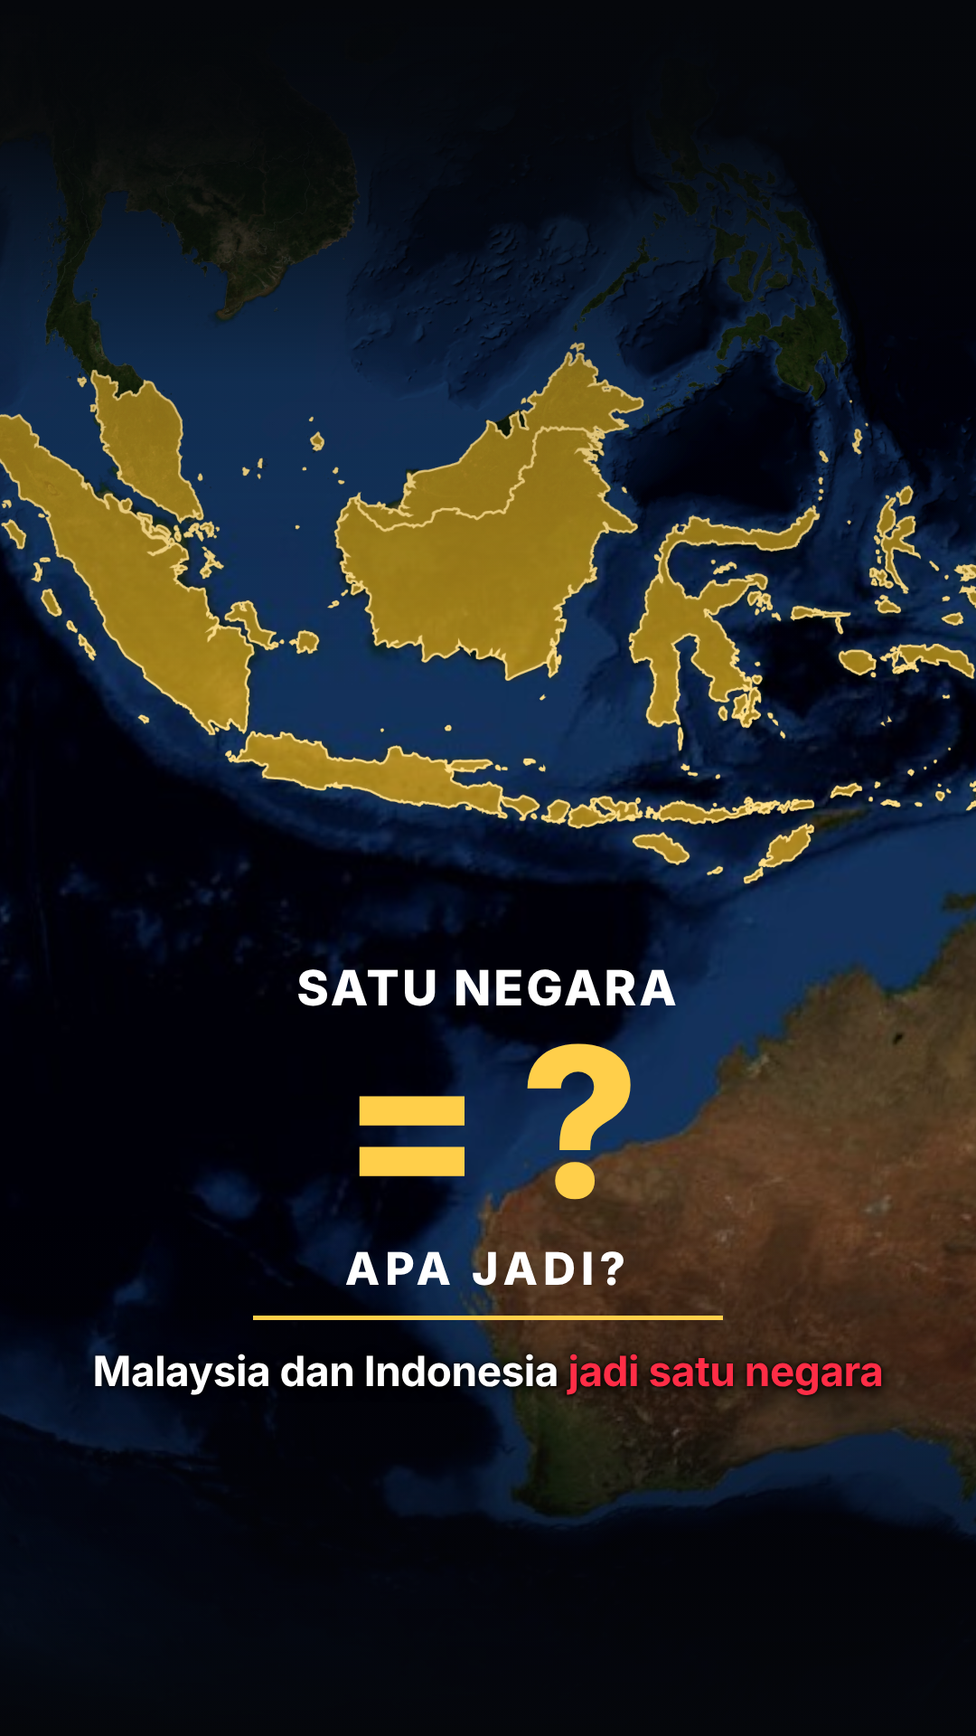
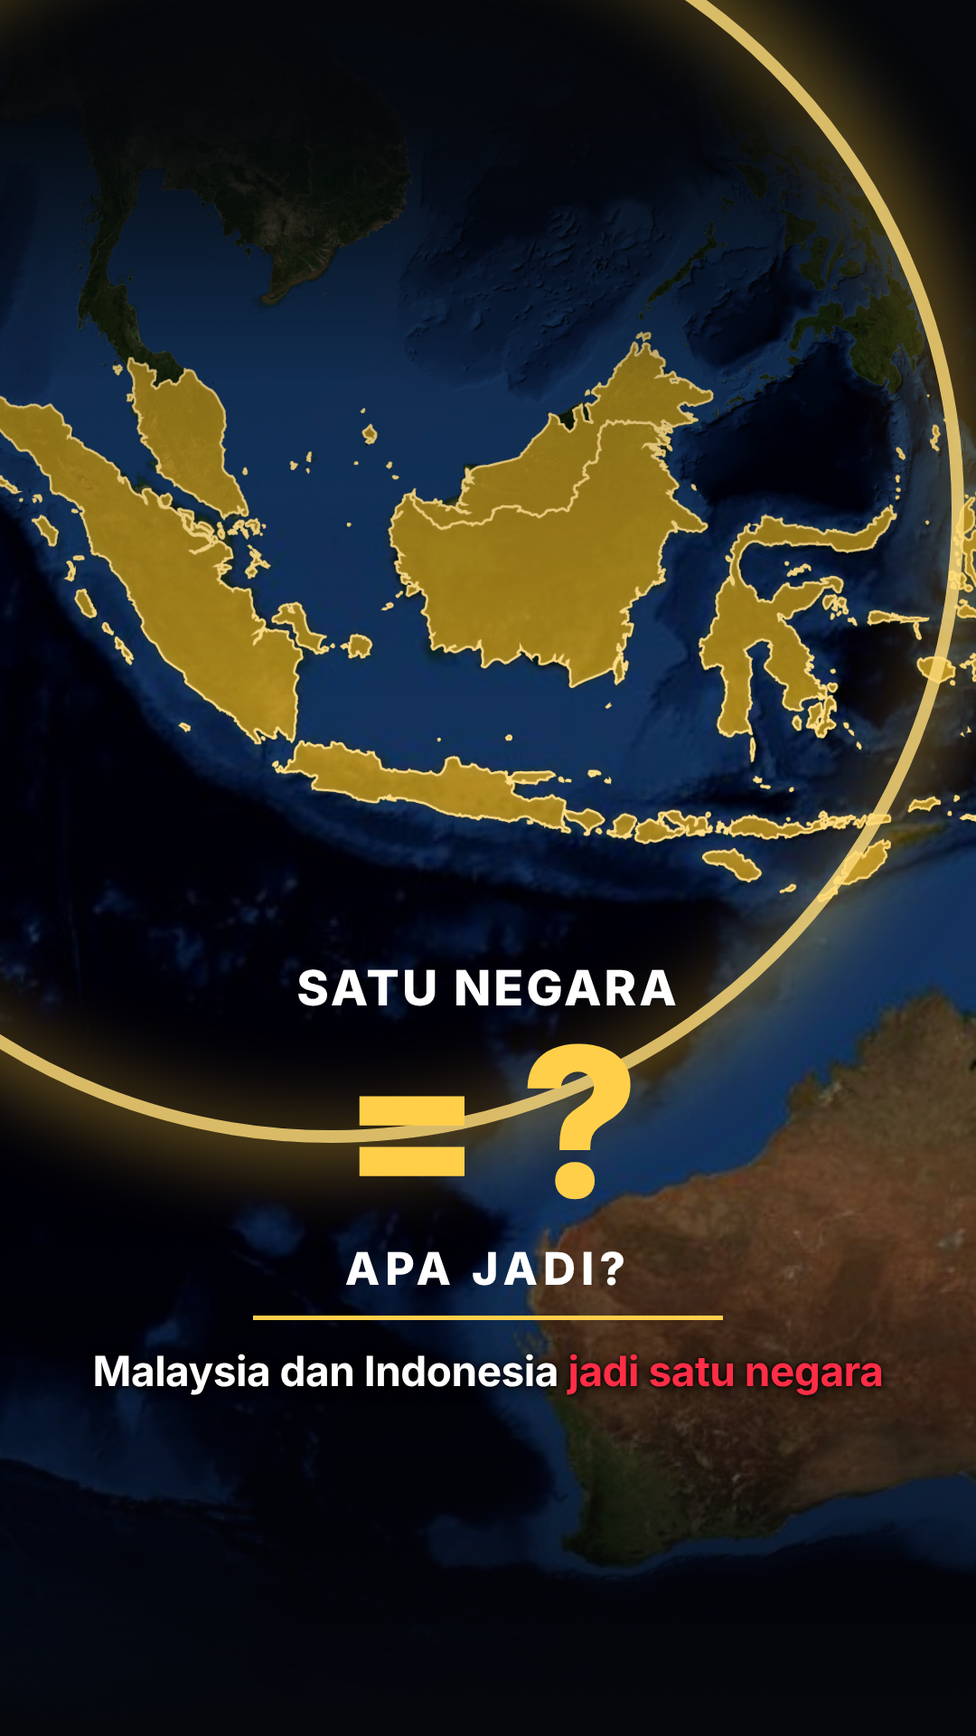
whatif-mi-video: storyboard v2 with zip seam, slam, leaderboard climb, name slot, Anwar-Prabowo handshake
Claude-Session: https://claude.ai/code/session_01GRVCpWmiskqov5jCfdMsbZ

diff --git a/whatif-mi-video/boards/frame.html b/whatif-mi-video/boards/frame.html
@@ -108,6 +108,20 @@ html,body{width:1080px;height:1920px;background:#05070b;overflow:hidden;font-fam
 .cmp{margin-top:14px}.cmp div{display:flex;align-items:center;gap:12px;margin:8px 0;font:800 22px Inter;color:#c9d0d8}.cmp b{width:210px;font-weight:800}.cmp i{display:block;height:22px;background:#5b6573;border-radius:5px;flex:none;max-width:360px}.cmp u{text-decoration:none;color:#fff}.cmp .me i{background:#ffcf4a}.cmp .me b,.cmp .me u{color:#ffcf4a}
 .rkl{margin-top:14px}.rkl div{display:flex;align-items:center;gap:14px;font:800 26px Inter;color:#c9d0d8;padding:6px 10px;border-radius:8px}.rkl s{text-decoration:none;width:40px;color:#8a929b}.rkl u{margin-left:auto;text-decoration:none;color:#fff}.rkl .me{background:rgba(255,207,74,.18);color:#ffcf4a}.rkl .old{font:700 16px Mono;color:#8a929b}
 .sp{position:absolute;font:800 54px Inter;color:#111;background:#fff;padding:22px 34px;border-radius:40px 40px 40px 8px;box-shadow:0 14px 40px rgba(0,0,0,.6)}.sp.r{border-radius:40px 40px 8px 40px;background:#ffcf4a}
+.hypo{position:absolute;top:240px;left:0;right:0;text-align:center;font:700 22px Mono;letter-spacing:4px;color:#ffcf4a}
+.spk{position:absolute;width:120px;height:120px;margin:-60px 0 0 -60px;border-radius:50%;background:radial-gradient(#fff,rgba(255,220,120,.9) 25%,rgba(255,180,40,0) 70%);box-shadow:0 0 60px 20px rgba(255,200,80,.5)}
+.shock{position:absolute;width:1400px;height:1400px;margin:-700px 0 0 -700px;border-radius:50%;border:14px solid rgba(255,220,120,.85);box-shadow:0 0 80px 30px rgba(255,200,60,.35),inset 0 0 80px 20px rgba(255,200,60,.25)}
+.lb{position:absolute;left:70px;right:70px;background:rgba(10,12,17,.94);border-radius:18px;padding:22px 24px;box-shadow:0 24px 60px rgba(0,0,0,.6)}.lb .k{font:700 20px Mono;letter-spacing:3px;color:#c9d0d8;margin-bottom:10px}
+.lr{display:flex;align-items:center;gap:16px;font:800 32px Inter;color:#e9eef3;padding:12px 14px;border-radius:10px;margin:4px 0;background:rgba(255,255,255,.04)}.lr s{text-decoration:none;width:48px;color:#8a929b}.lr u{margin-left:auto;text-decoration:none}
+.lr.me{background:linear-gradient(90deg,#ffcf4a,#f2a51a);color:#111;transform:scale(1.04);box-shadow:0 10px 30px rgba(255,200,60,.4)}.lr.me s{color:#111}
+.lf{margin-top:12px;font:800 24px Inter;color:#fff}.lf b{color:#ffcf4a}.lf i{font-style:normal;color:#ff2d46}
+.dust{position:absolute;width:900px;height:300px;margin:-150px 0 0 -450px;border-radius:50%;border:10px solid rgba(255,230,170,.6);box-shadow:0 0 60px 20px rgba(255,220,150,.3)}
+.slam{position:absolute;top:240px;left:0;right:0;text-align:center;font:800 120px Inter;color:#fff;text-shadow:0 8px 0 #ff2d46,0 12px 30px rgba(0,0,0,.7);transform:rotate(-6deg)}
+.hs{position:absolute;filter:drop-shadow(0 18px 22px rgba(0,0,0,.6))}
+.glint{position:absolute;width:160px;height:160px;margin:-80px 0 0 -80px;border-radius:50%;background:radial-gradient(#fff,rgba(255,220,120,.8) 25%,rgba(255,180,40,0) 70%)}
+.np2{position:absolute;display:flex;flex-direction:column;align-items:flex-start;gap:6px}.np2.r{align-items:flex-end}.np2 b{font:800 30px Inter;color:#fff;background:rgba(10,12,17,.88);padding:6px 14px;border-radius:8px}.np2 i{font:800 18px Inter;font-style:normal;color:#111;background:#ffce00;padding:5px 10px;border-radius:5px}
+.slot{position:absolute;top:880px;left:110px;right:110px;background:rgba(10,12,17,.94);border:4px solid #ffcf4a;border-radius:22px;padding:20px;text-align:center;box-shadow:0 24px 60px rgba(0,0,0,.6)}.slot .k{font:700 22px Mono;letter-spacing:3px;color:#ffcf4a}
+.reel{margin:10px 0;overflow:hidden}.reel div{font:800 60px/1.25 Inter}.reel .ghost{color:rgba(255,255,255,.25);font-size:44px;filter:blur(1.5px)}.reel .cur{color:#fff}.slot .hint{font:800 26px Inter;color:#ff2d46}
 #tintS{position:absolute;inset:0;background:radial-gradient(ellipse at 50% 50%,rgba(255,30,50,0) 40%,rgba(255,30,50,.45) 100%)}
 </style></head><body>
 <canvas id="gl" width="1080" height="1920"></canvas>
@@ -286,30 +300,36 @@ function borderGlow() { const L = g.layer("bd", 8, SEA), c = L.ctx; c.save(); c.
   const P = (pts) => { c.beginPath(); pts.forEach(([lo, la], i) => (i ? c.lineTo(L.ox(lo), L.oy(la)) : c.moveTo(L.ox(lo), L.oy(la)))); c.stroke(); };
   P([[109.6, 1.7], [111.5, 1.1], [113.5, 1.4], [114.6, 2.3], [115.6, 3.9], [117.6, 4.2]]); P([[98.5, 5.6], [100.8, 3.2], [102.6, 1.8], [104.2, 1.2]]); c.restore(); L.tex.needsUpdate = true; }
 const gcard = (top, html2) => html(`<div class="gk" style="top:${top}px">${html2}</div>`);
+const HAND = await (await fetch("../assets/leaders/hand.json")).json();
+// zip seam: border opened up to a point, sparks at the slider
+function zipSeam(u) { const L = g.layer("zip", 9, SEA), c = L.ctx; const P = [[98.5, 5.6], [100.8, 3.2], [102.6, 1.8], [104.2, 1.2], [107, 1.4], [109.6, 1.7], [111.5, 1.1], [113.5, 1.4], [114.6, 2.3], [115.6, 3.9], [117.6, 4.2]];
+  const n = P.length - 1, k = u * n, i = Math.floor(k), f = k - i, head = i < n ? [P[i][0] + (P[i + 1][0] - P[i][0]) * f, P[i][1] + (P[i + 1][1] - P[i][1]) * f] : P[n];
+  c.lineCap = "round"; c.strokeStyle = "#ffe08a"; c.lineWidth = 9; c.shadowColor = "#ffcf4a"; c.shadowBlur = 24; c.beginPath(); P.slice(0, i + 1).concat([head]).forEach(([lo, la], j) => (j ? c.lineTo(L.ox(lo), L.oy(la)) : c.moveTo(L.ox(lo), L.oy(la)))); c.stroke();
+  c.setLineDash([16, 10]); c.strokeStyle = "#fff"; c.lineWidth = 5; c.shadowBlur = 10; c.beginPath(); [head].concat(P.slice(i + 1)).forEach(([lo, la], j) => (j ? c.lineTo(L.ox(lo), L.oy(la)) : c.moveTo(L.ox(lo), L.oy(la)))); c.stroke(); c.setLineDash([]);
+  L.tex.needsUpdate = true; return head; }
+const sparks = (x, y) => html(`<div class="spk" style="left:${x}px;top:${y}px"></div>`);
+const board = (top, title, rows, foot) => html(`<div class="lb" style="top:${top}px"><div class="k">${title}</div>${rows.map(([r, n, v, cls = ""]) => `<div class="lr ${cls}"><s>${r}</s><span>${n}</span><u>${v}</u></div>`).join("")}${foot ? `<div class="lf">${foot}</div>` : ""}</div>`);
 const FR = {
-  1() { fillL("my", [MYf], "rgba(40,110,255,.55)", "#8fb4ff"); fillL("id", [IDf], "rgba(230,40,50,.55)", "#ff9aa0"); borderGlow();
-    g.setView({ lat: 0, lon: 114, dist: 1.9, tilt: 8, yShift: 0.18 });
-    locPin(4.2, 102.0, "MALAYSIA", ""); locPin(-2.5, 118, "INDONESIA", "");
-    html(`<div class="title" style="top:1060px"><div class="a">BAYANGKAN…</div><div class="b"><span>WHAT IF?</span></div><div class="c">MALAYSIA + INDONESIA</div><div class="ln"></div></div>`); },
-  2() { fillL("mi", [MYf, IDf], gold, "#ffe08a"); g.setView({ lat: 0, lon: 114, dist: 1.9, tilt: 8, yShift: 0.18 });
-    html(`<div class="title" style="top:1060px"><div class="a">SATU NEGARA</div><div class="b"><span style="color:#ffcf4a">= ?</span></div><div class="c">APA JADI?</div><div class="ln" style="background:#ffcf4a"></div></div>`);
+  1() { fillL("my", [MYf], "rgba(40,110,255,.55)", "#8fb4ff"); fillL("id", [IDf], "rgba(230,40,50,.55)", "#ff9aa0");
+    g.setView({ lat: 1, lon: 108, dist: 1.5, tilt: 8, yShift: 0.18 }); const h = zipSeam(0.55); g.render(); const p = g.project(h[1], h[0]); sparks(p.x, p.y);
+    html(`<div class="hypo">VIDEO HIPOTETIKAL</div><div class="title" style="top:1080px"><div class="a">BAYANGKAN…</div><div class="b"><span>WHAT IF?</span></div><div class="c">MALAYSIA + INDONESIA</div><div class="ln"></div></div>`); },
+  2() { fillL("mi", [MYf, IDf], gold, "#ffe08a"); g.setView({ lat: 0, lon: 112, dist: 1.8, tilt: 8, yShift: 0.18 }); g.render();
+    const p = g.project(1.5, 107); html(`<div class="shock" style="left:${p.x}px;top:${p.y}px"></div><div class="title" style="top:1060px"><div class="a">SATU NEGARA</div><div class="b"><span style="color:#ffcf4a">= ?</span></div><div class="c">APA JADI?</div><div class="ln" style="background:#ffcf4a"></div></div>`);
     capB(`Malaysia dan Indonesia <span class="r">jadi satu negara</span>`); },
-  3() { fillL("mi", [MYf, IDf], gold, "#ffe08a"); g.setView({ lat: 0, lon: 114, dist: 2.1, tilt: 8, yShift: 0.26 });
-    gcard(860, `<div class="no">PENDUDUK</div><div class="num">324.5<span class="un"> JUTA</span></div><div class="kk">DOSM 2026 + UNJURAN INDONESIA 2026</div>
-      <div class="cmp"><div><b>🇺🇸 AMERIKA</b><i style="width:100%"></i><u>341.8 J</u></div><div class="me"><b>✨ GABUNGAN</b><i style="width:95%"></i><u>324.5 J</u></div><div><b>🇵🇰 PAKISTAN</b><i style="width:71%"></i><u>241.5 J</u></div></div><div class="ex"><b>#4 DUNIA · <i>17 JUTA</i> DI BELAKANG AS</b></div>`);
+  3() { fillL("mi", [MYf, IDf], gold, "#ffe08a"); g.setView({ lat: 0, lon: 114, dist: 2.3, tilt: 8, yShift: 0.3 });
+    board(700, "PENDUDUK DUNIA · 2026", [["1", "🇮🇳 India", "1,429 J"], ["2", "🇨🇳 China", "1,405 J"], ["3", "🇺🇸 Amerika Syarikat", "341.8 J"], ["4", "✨ MALAYSIA + INDONESIA", "324.5 J", "me"], ["5", "🇵🇰 Pakistan", "241.5 J"]], `▲ MEMOTONG… BERHENTI DI <b>#4</b> · <i>17 JUTA LAGI KE #3!</i>`);
     capB(`Negara <span class="r">keempat</span> paling ramai di dunia`); },
-  4() { // true-size shift of the combined shape onto Europe (lon stretched by 1/cos(lat) so area reads honestly)
-    const R = { lon0: -40, lon1: 70, lat0: 25, lat1: 72, ppd: 20 }, L = g.layer("eu", 8, R), c = L.ctx; c.fillStyle = gold; c.strokeStyle = "#ffe08a"; c.lineWidth = 3;
+  4() { const R = { lon0: -40, lon1: 70, lat0: 25, lat1: 72, ppd: 20 }, L = g.layer("eu", 8, R), c = L.ctx; c.fillStyle = gold; c.strokeStyle = "#ffe08a"; c.lineWidth = 3;
     const shift = (lo, la) => { const la2 = la + 50, k = Math.cos(la2 * Math.PI / 180); return [15 + (lo - 115) / k, la2]; };
     for (const f of [MYf, IDf]) { const polys = f.geometry.type === "Polygon" ? [f.geometry.coordinates] : f.geometry.coordinates; c.beginPath();
       for (const poly of polys) for (const ring of poly) ring.forEach(([lo, la], i) => { const [x, y] = shift(lo, la); i ? c.lineTo(L.ox(x), L.oy(y)) : c.moveTo(L.ox(x), L.oy(y)); });
       c.fill("evenodd"); c.stroke(); } L.tex.needsUpdate = true;
-    g.setView({ lat: 50, lon: 15, dist: 2.4, tilt: 6, yShift: 0.26 });
-    gcard(900, `<div class="no">KELUASAN</div><div class="num">2.24<span class="un"> JUTA KM²</span></div><div class="kk">UNSD · SAIZ SEBENAR DILETAK ATAS EROPAH</div><div class="ex"><b>#12 DUNIA · LEBIH BESAR DARI <i>ARAB SAUDI</i></b></div>`);
+    g.setView({ lat: 50, lon: 15, dist: 2.4, tilt: 6, yShift: 0.26 }); g.render(); const p = g.project(48, 18);
+    html(`<div class="dust" style="left:${p.x}px;top:${p.y}px"></div><div class="slam">DUM!</div>`);
+    gcard(960, `<div class="no">KELUASAN · SAIZ SEBENAR</div><div class="num">2.24<span class="un"> JUTA KM²</span></div><div class="ex"><b>#12 DUNIA · LEBIH BESAR DARI <i>ARAB SAUDI</i></b></div>`);
     capB(`Nombor dua belas dunia, <span class="r">lebih besar dari Arab Saudi</span>`); },
-  5() { fillL("mi", [MYf, IDf], gold, "#ffe08a"); g.setView({ lat: 0, lon: 114, dist: 2.1, tilt: 8, yShift: 0.26 });
-    gcard(800, `<div class="no">EKONOMI · KDNK 2026</div><div class="num">$2.03<span class="un"> TRILION</span></div><div class="kk">IMF WEO OKT 2026</div>
-      <div class="rkl"><div><s>14</s>Australia<u>2.11 T</u></div><div><s>15</s>Sepanyol<u>2.09 T</u></div><div class="me"><s>16</s>✨ MALAYSIA + INDONESIA<u>2.03 T</u></div><div><s>17</s>Türkiye<u>1.82 T</u></div><div class="old"><s></s>Indonesia #17 · Malaysia #34 sebelum ni</div></div>`);
+  5() { fillL("mi", [MYf, IDf], gold, "#ffe08a"); g.setView({ lat: 0, lon: 114, dist: 2.3, tilt: 8, yShift: 0.3 });
+    board(700, "EKONOMI · KDNK 2026 (IMF)", [["14", "🇦🇺 Australia", "$2.11 T"], ["15", "🇪🇸 Sepanyol", "$2.09 T"], ["16", "✨ MALAYSIA + INDONESIA", "$2.03 T", "me"], ["17", "🇹🇷 Türkiye", "$1.82 T"], ["18", "🇳🇱 Belanda", "$1.42 T"]], `🇮🇩 #17 + 🇲🇾 #34 → <b>#16</b>`);
     capB(`Masuk <span class="r">enam belas terbesar</span> dunia`); },
   6() { fillL("mi", [MYf, IDf], gold, "#ffe08a"); g.setView({ lat: 0, lon: 112, dist: 1.6, tilt: 8, yShift: 0.18 });
     html(`<div class="sp" style="left:90px;top:700px">Apa khabar? 🇲🇾</div><div class="sp r" style="right:90px;top:860px">Apa kabar? 🇮🇩</div><div class="title" style="top:1120px"><div class="c" style="font-size:48px">BAHASA YANG SAMA AKAR</div></div>`);
@@ -317,11 +337,18 @@ const FR = {
   7() { fillL("mph", [MALAYA, IDf, PHf], "rgba(60,200,180,.5)", "#7fffe8"); g.setView({ lat: 5, lon: 115, dist: 2.2, tilt: 8, yShift: 0.22 });
     gcard(940, `<div class="no" style="color:#7fffe8">MAPHILINDO · 1963</div><div class="num" style="font-size:64px;color:#fff;text-shadow:none">Tanah Melayu + Filipina + Indonesia</div><div class="kk">CADANGAN GABUNGAN LONGGAR · PERJANJIAN MANILA</div><div class="stamp" style="position:relative;display:inline-block;margin-top:18px;font-size:40px">TAK PERNAH JADI</div>`);
     capB(`Tahun enam puluh tiga, <span class="r">Maphilindo</span>`); },
-  8() { fillL("mi", [MYf, IDf], gold, "#ffe08a"); g.setView({ lat: -1, lon: 109, dist: 1.75, tilt: 8, yShift: 0.26 });
+  8() { fillL("my", [MYf], "rgba(40,110,255,.45)", "#8fb4ff"); fillL("id", [IDf], "rgba(230,40,50,.45)", "#ff9aa0"); g.setView({ lat: 1, lon: 110, dist: 1.8, tilt: 8, yShift: 0.1 });
+    const A = HAND.anwar, P = HAND.prabowo, Ha = 640, Hp = 600, sa = Ha / A.h, sp = Hp / P.h, Y = 1060, X = 540;
+    const ax = X + 6 - A.hx * sa, ay = Y - A.hy * sa, px = X - 6 - P.hx * sp, py = Y - P.hy * sp;
+    html(`<img class="hs" src="../assets/leaders/anwar-fig.png" style="left:${ax}px;top:${ay}px;height:${Ha}px"><img class="hs" src="../assets/leaders/prabowo-fig.png" style="left:${px}px;top:${py}px;height:${Hp}px">
+      <div class="glint" style="left:${X}px;top:${Y}px"></div>
+      <div class="np2" style="left:40px;top:${ay + Ha + 8}px"><b>ANWAR IBRAHIM</b><i>PERDANA MENTERI MALAYSIA</i></div><div class="np2 r" style="right:40px;top:${ay + Ha + 8}px"><b>PRABOWO SUBIANTO</b><i>PRESIDEN INDONESIA</i></div>
+      <div class="title" style="top:300px"><div class="c" style="font-size:50px">DUA NEGARA BERDAULAT</div><div class="a" style="color:#ffcf4a;margin-top:8px">JIRAN PALING RAPAT 🤝</div></div>`);
+    capB(`dua negara berdaulat… <span class="r">jiran paling rapat</span>`); },
+  9() { fillL("mi", [MYf, IDf], gold, "#ffe08a"); g.setView({ lat: -1, lon: 109, dist: 1.75, tilt: 8, yShift: 0.26 });
     locPin(3.14, 101.69, "KUALA LUMPUR", "?", true); locPin(-6.2, 106.85, "JAKARTA", "?", true); locPin(-0.97, 116.7, "NUSANTARA (IKN)", "?", true);
-    html(`<div class="title" style="top:920px"><div class="c" style="font-size:52px">IBU NEGARA KAT MANA?</div><div class="a" style="margin-top:10px;color:#ffcf4a">NAMA NEGARA APA?</div></div>`);
-    html(`<div class="bubs" style="top:1110px"><span>KL!</span><span class="r">Jakarta</span><span>Nusantara 🤔</span><span>"Malindo"? 😂</span></div><div class="komen" style="top:1330px">KOMEN ↓</div>`);
-    capB(`ibu negara patut <span class="r">kat mana?</span>`); },
+    html(`<div class="slot"><div class="k">NAMA NEGARA BARU?</div><div class="reel"><div class="ghost">MALINDO</div><div class="cur">NUSANTARA RAYA</div><div class="ghost">INDOMALAYA</div></div><div class="hint">…KORANG PILIH APA?</div></div><div class="komen" style="top:1330px">KOMEN ↓</div>`);
+    capB(`Dan nama negara ni <span class="r">apa?</span>`); },
 };
 FR[F]();
 window.__pins=[...document.querySelectorAll('.pin')].map(e=>e.style.left+','+e.style.top);

diff --git a/whatif-mi-video/boards/storyboard.html b/whatif-mi-video/boards/storyboard.html
@@ -17,17 +17,18 @@ h1{font:800 46px Inter;letter-spacing:-1px}h1 span{color:#ff2d46}
 .vo{font:400 17px/1.4 Inter;color:#dfe5ea;font-style:italic;margin-bottom:12px}
 .fx{font:400 15px/1.45 Inter;color:#9aa3ad}.fx b{color:#ffcf4a;font-weight:700}
 </style></head><body>
-<h1>WHAT IF? <span>MALAYSIA + INDONESIA</span> · storyboard</h1>
-<div class="meta">GAYA MAP ANIMATION (what if) · 1080×1920 · ~48 s · subtitle jalur bawah · data DOSM, IMF WEO Okt 2026, UNSD · tiada bendera gabungan</div>
+<h1>WHAT IF? <span>MALAYSIA + INDONESIA</span> · storyboard v2</h1>
+<div class="meta">GAYA MAP ANIMATION · 1080×1920 · ~52 s · efek: zip sempadan, peta dihempas, ranking memotong, slot nama · karikatur Anwar & Prabowo di babak "jiran rapat" sahaja · subtitle jalur bawah</div>
 <div class="grid">
-<div class="f"><img src="frame-01.png"><div><div class="n">01 · 0:00</div><div class="t">Hook</div><div class="vo">"Bayangkan… Malaysia dan Indonesia jadi satu negara."</div><div class="fx">Malaysia (biru) & Indonesia (merah) menyala, garis sempadan putih berkelip. Tajuk <b>WHAT IF?</b> slam.</div></div></div>
-<div class="f"><img src="frame-02.png"><div><div class="n">02 · 0:03</div><div class="t">Bercantum</div><div class="vo">"Apa jadi?"</div><div class="fx">Sempadan pudar, dua warna <b>cair bercantum jadi emas</b> dari tengah. "SATU NEGARA = ?"</div></div></div>
-<div class="f"><img src="frame-03.png"><div><div class="n">03 · 0:05</div><div class="t">Penduduk</div><div class="vo">"324 juta… keempat paling ramai, 17 juta di belakang Amerika."</div><div class="fx">Kad <b>324.5 JUTA</b> count-up, bar banding AS / GABUNGAN / Pakistan, "#4 DUNIA".</div></div></div>
-<div class="f"><img src="frame-04.png"><div><div class="n">04 · 0:12</div><div class="t">Keluasan</div><div class="vo">"2.2 juta km², nombor 12, lebih besar dari Arab Saudi."</div><div class="fx">Bentuk gabungan <b>diangkat & diletak atas Eropah (saiz sebenar)</b>: Sepanyol sampai Laut Kaspia.</div></div></div>
-<div class="f"><img src="frame-05.png"><div><div class="n">05 · 0:19</div><div class="t">Ekonomi</div><div class="vo">"Lebih 2 trilion dolar, 16 terbesar, hampir Sepanyol."</div><div class="fx">Kad <b>$2.03 TRILION</b>, senarai ranking 14–17 dengan baris gabungan menyala di <b>#16</b>.</div></div></div>
-<div class="f"><img src="frame-06.png"><div><div class="n">06 · 0:26</div><div class="t">Bahasa</div><div class="vo">"Semua orang boleh faham bahasa yang sama."</div><div class="fx">Gelembung "Apa khabar? 🇲🇾" dan "Apa kabar? 🇮🇩" bertemu di tengah.</div></div></div>
-<div class="f"><img src="frame-07.png"><div><div class="n">07 · 0:30</div><div class="t">1963</div><div class="vo">"Maphilindo: Tanah Melayu, Filipina, Indonesia. Tak pernah jadi."</div><div class="fx">Peta 1963: <b>Semenanjung sahaja</b> (Sabah/Sarawak belum masuk) + Filipina + Indonesia menyala hijau. Cop <b>TAK PERNAH JADI</b>.</div></div></div>
-<div class="f"><img src="frame-08.png"><div><div class="n">08 · 0:38</div><div class="t">Komen!</div><div class="vo">"Ibu negara kat mana? Nama negara apa? Komen kat bawah."</div><div class="fx">Pin KL / Jakarta / Nusantara (IKN) dengan "?", gelembung komen, <b>KOMEN ↓</b>, outro.</div></div></div>
+<div class="f"><img src="frame-01.png"><div><div class="n">01 · 0:00</div><div class="t">Hook · ZIP</div><div class="vo">"Bayangkan… Malaysia dan Indonesia jadi satu negara."</div><div class="fx"><b>EFEK 1:</b> sempadan Selat Melaka → Borneo <b>terbuka macam zip</b>, percikan cahaya ikut slider. Tag kecil "VIDEO HIPOTETIKAL". Tajuk <b>WHAT IF?</b></div></div></div>
+<div class="f"><img src="frame-02.png"><div><div class="n">02 · 0:03</div><div class="t">Gelombang emas</div><div class="vo">"Apa jadi?"</div><div class="fx">Zip habis → biru + merah <b>meletup jadi gelombang emas</b> dari tengah, skrin bergegar, bunyi bass drop.</div></div></div>
+<div class="f"><img src="frame-03.png"><div><div class="n">03 · 0:05</div><div class="t">Penduduk · ranking</div><div class="vo">"324 juta… keempat… 17 juta di belakang Amerika."</div><div class="fx"><b>EFEK 3:</b> papan ranking, baris emas <b>meluncur naik memotong</b> Pakistan… berhenti di <b>#4</b>, "17 JUTA LAGI KE #3!".</div></div></div>
+<div class="f"><img src="frame-04.png"><div><div class="n">04 · 0:12</div><div class="t">Keluasan · DUM!</div><div class="vo">"2.2 juta km², nombor 12, lebih besar dari Arab Saudi."</div><div class="fx"><b>EFEK 2:</b> bentuk gabungan <b>tercabut, terbang & dihempas</b> atas Eropah (saiz sebenar). "DUM!" + gelombang debu.</div></div></div>
+<div class="f"><img src="frame-05.png"><div><div class="n">05 · 0:19</div><div class="t">Ekonomi · ranking</div><div class="vo">"Lebih 2 trilion dolar, 16 terbesar."</div><div class="fx"><b>EFEK 3:</b> Indonesia #17 + Malaysia #34 bercantum, <b>memotong Türkiye</b>, berhenti #16 di bawah Sepanyol.</div></div></div>
+<div class="f"><img src="frame-06.png"><div><div class="n">06 · 0:26</div><div class="t">Bahasa</div><div class="vo">"Semua orang boleh faham bahasa yang sama."</div><div class="fx">"Apa khabar? 🇲🇾" & "Apa kabar? 🇮🇩" bertemu di tengah.</div></div></div>
+<div class="f"><img src="frame-07.png"><div><div class="n">07 · 0:30</div><div class="t">1963</div><div class="vo">"Maphilindo… tak pernah jadi."</div><div class="fx">Semenanjung + Filipina + Indonesia menyala (Sabah/Sarawak belum masuk), cop <b>TAK PERNAH JADI</b>.</div></div></div>
+<div class="f"><img src="frame-08.png"><div><div class="n">08 · 0:37</div><div class="t">Jiran rapat 🤝</div><div class="vo">"Hakikatnya hari ni, dua negara berdaulat… tapi tetap jiran paling rapat."</div><div class="fx">Peta kembali 2 warna. <b>Karikatur Anwar & Prabowo jalan & berjabat tangan</b>, kilauan di tangan, nama + gelaran.</div></div></div>
+<div class="f"><img src="frame-09.png"><div><div class="n">09 · 0:42</div><div class="t">Slot nama</div><div class="vo">"Ibu negara kat mana? Nama negara apa? Komen."</div><div class="fx"><b>EFEK 5:</b> mesin slot berpusing MALINDO… NUSANTARA RAYA… INDOMALAYA… berhenti "???". Pin KL/Jakarta/IKN, <b>KOMEN ↓</b>.</div></div></div>
 </div>
 <div class="meta" style="margin-top:30px">Caption BAWAH, perkataan demi perkataan · peralihan warna biru+merah → emas · zoom punch pada kata kunci · karikatur jatuh masuk, melantun &amp; kepala bergoyang · carta bar membina · penutup ajak komen · satu shot kamera berterusan</div>
 </body></html>

diff --git a/whatif-mi-video/SCRIPT.md b/whatif-mi-video/SCRIPT.md
@@ -15,7 +15,7 @@ warna emas; kad perbandingan "SEBELUM → SELEPAS" dengan ranking dunia naik. Su
 
 ## Versi satu perenggan (untuk rakam VO)
 
-Bayangkan… Malaysia dan Indonesia jadi satu negara. Apa jadi? Penduduk: tiga ratus dua puluh empat juta orang. Negara keempat paling ramai di dunia… cuma tujuh belas juta di belakang Amerika. Keluasan: dua juta dua ratus ribu kilometer persegi. Nombor dua belas dunia, lebih besar dari Arab Saudi. Ekonomi: lebih dua trilion dolar. Masuk enam belas terbesar dunia, hampir sama dengan Sepanyol. Dan semua orang… boleh faham bahasa yang sama. Idea ni pernah wujud. Tahun enam puluh tiga, ada cadangan Maphilindo: gabungan longgar Tanah Melayu, Filipina dan Indonesia. Tapi ia tak pernah jadi. Sekarang soalan untuk korang: kalau betul bergabung, ibu negara patut kat mana? Dan nama negara ni apa? Komen kat bawah.
+Bayangkan… Malaysia dan Indonesia jadi satu negara. Apa jadi? Penduduk: tiga ratus dua puluh empat juta orang. Negara keempat paling ramai di dunia… cuma tujuh belas juta di belakang Amerika. Keluasan: dua juta dua ratus ribu kilometer persegi. Nombor dua belas dunia, lebih besar dari Arab Saudi. Ekonomi: lebih dua trilion dolar. Masuk enam belas terbesar dunia, hampir sama dengan Sepanyol. Dan semua orang… boleh faham bahasa yang sama. Idea ni pernah wujud. Tahun enam puluh tiga, ada cadangan Maphilindo: gabungan longgar Tanah Melayu, Filipina dan Indonesia. Tapi ia tak pernah jadi. Hakikatnya hari ni, dua negara berdaulat… tapi tetap jiran paling rapat. Sekarang soalan untuk korang: kalau betul bergabung, ibu negara patut kat mana? Dan nama negara ni apa? Komen kat bawah.
 
 ## Semakan fakta
 `research/whatif-malaysia-indonesia.md`
